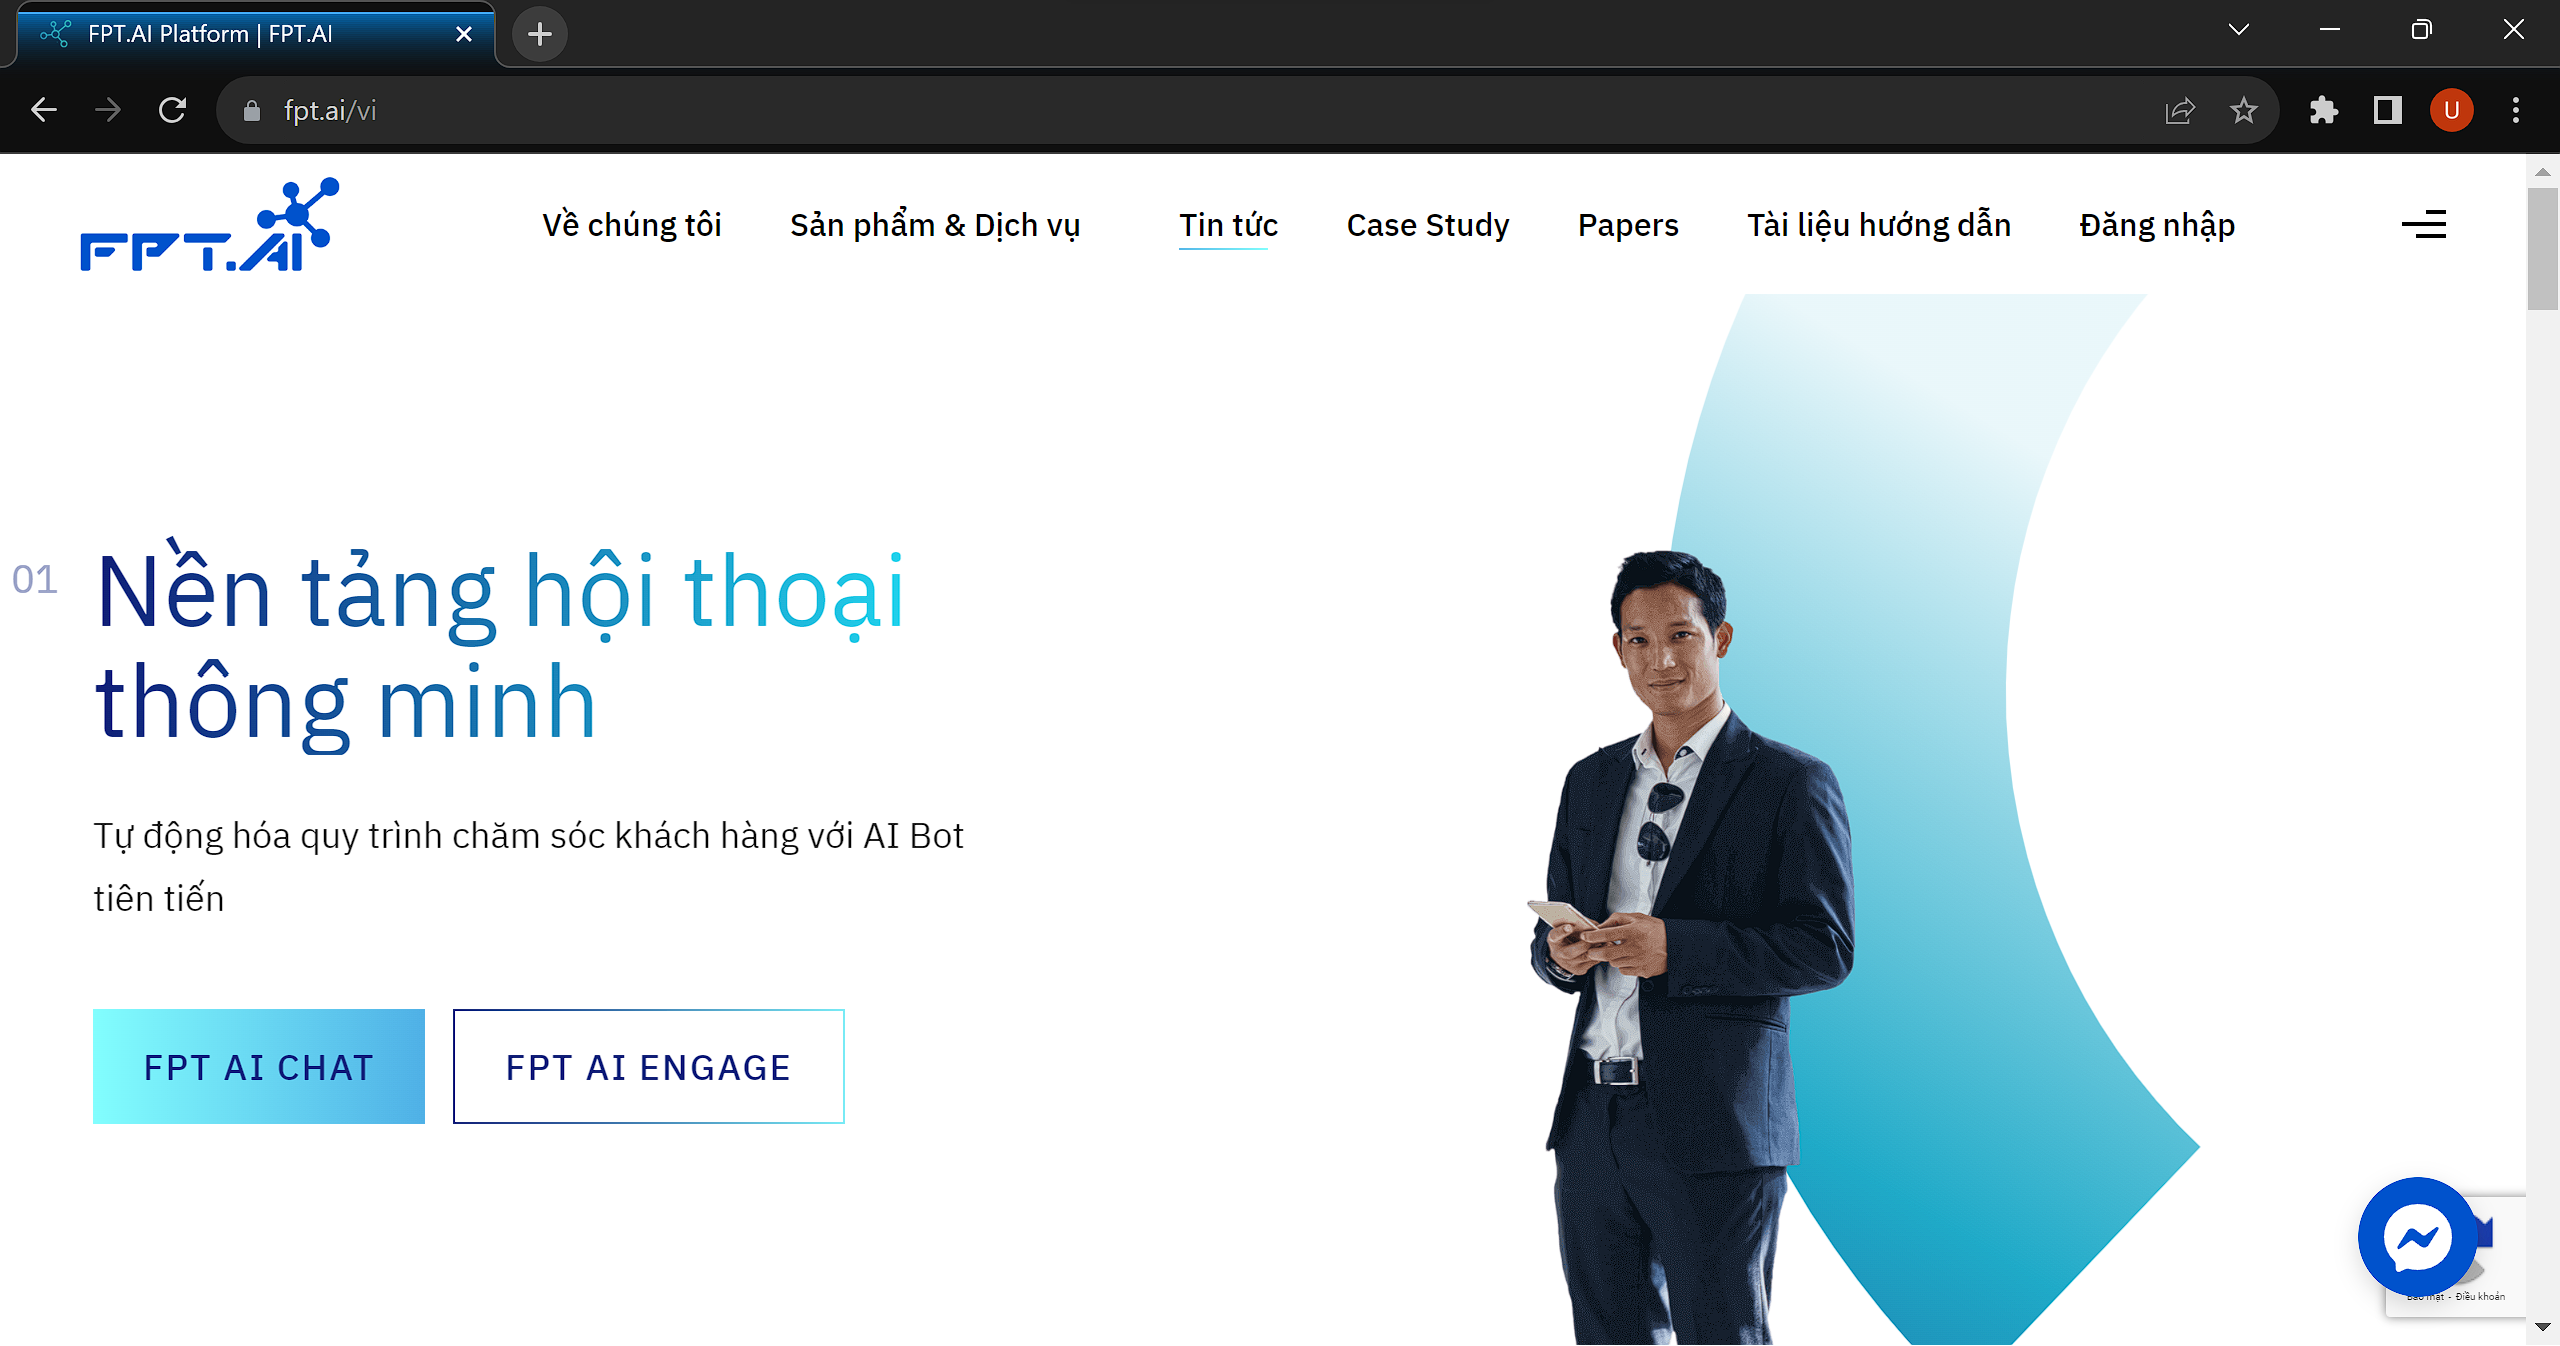
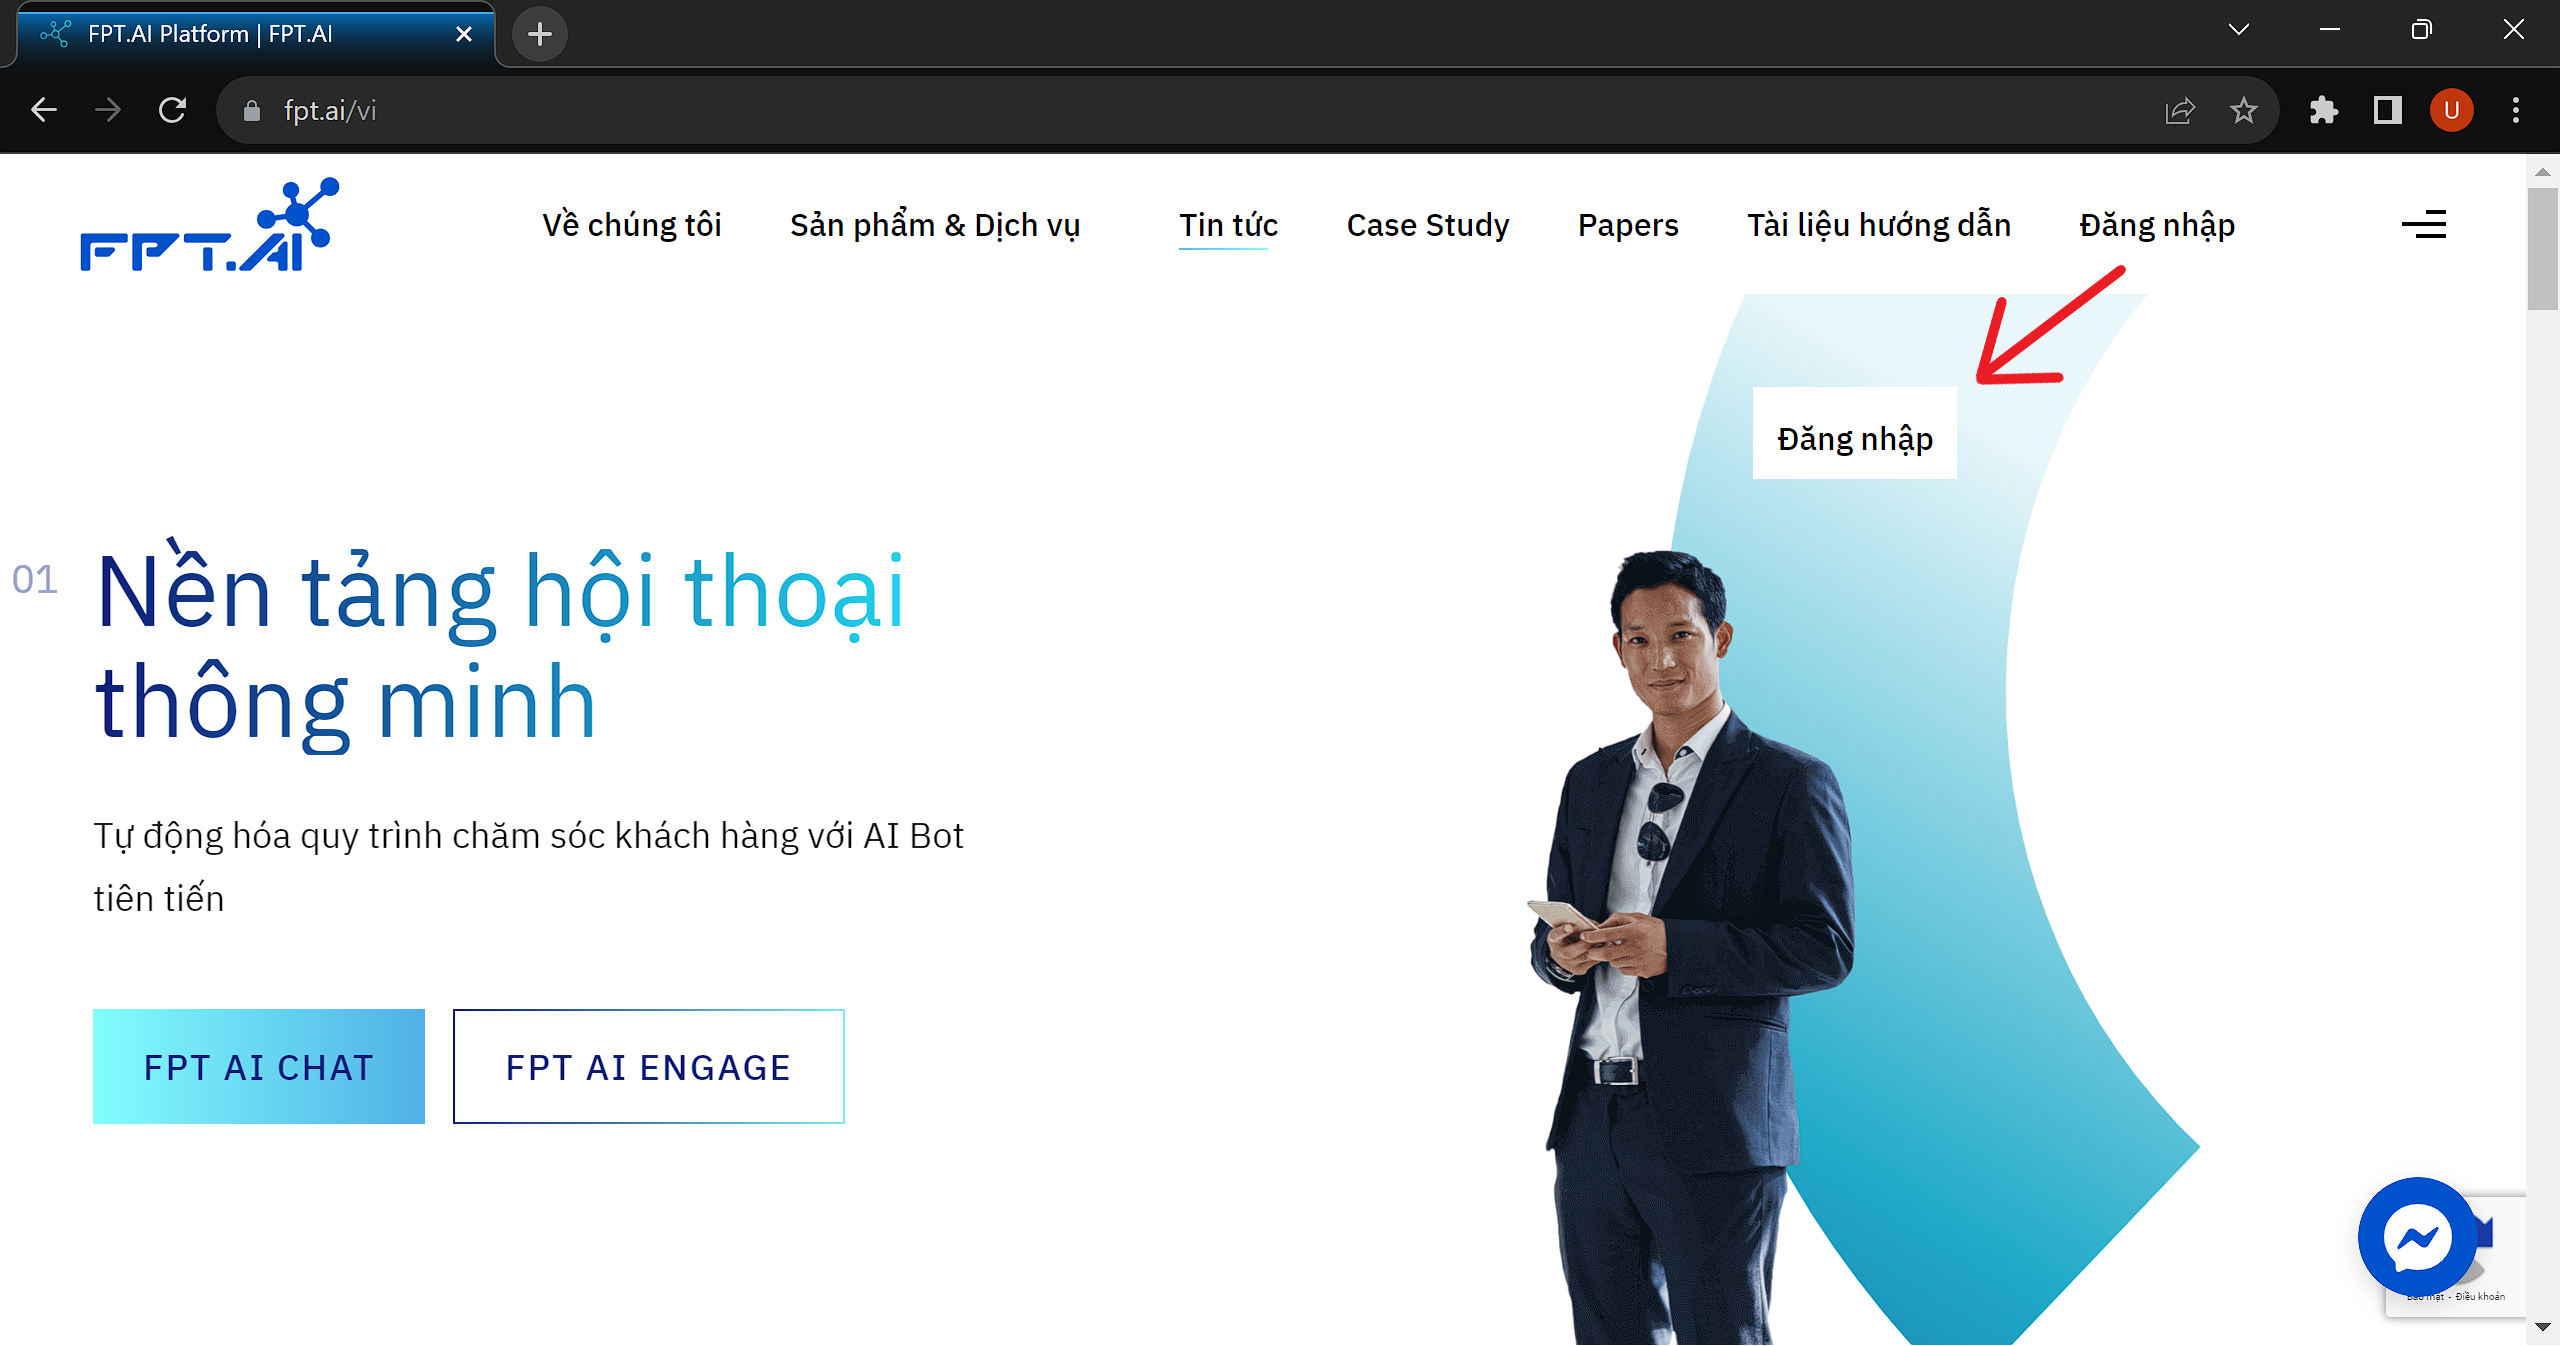
update Get FPTAI Key

Changed region(s): [[0.6875, 0.2184, 0.8125, 0.3744], [0.8125, 0.1872, 0.8438, 0.2184]]

diff --git a/api.html b/api.html
@@ -142,28 +142,47 @@
                         <li><a href="#step-2_2"><i class="fa fa-chevron-right"></i> Bước 2</a></li>
                         <li><a href="#step-2_3"><i class="fa fa-chevron-right"></i> Bước 3</a></li>
                         <li><a href="#step-2_4"><i class="fa fa-chevron-right"></i> Bước 4</a></li>
+                        <li><a href="#step-2_5"><i class="fa fa-chevron-right"></i> Bước 5</a></li>
+                        <li><a href="#step-2_6"><i class="fa fa-chevron-right"></i> Bước 6</a></li>
+                        <li><a href="#step-2_7"><i class="fa fa-chevron-right"></i> Bước 7</a></li>
+                        <li><a href="#step-2_8"><i class="fa fa-chevron-right"></i> Bước 8</a></li>
                     </ul>
                 </nav>
                 <div class="steps">
                     <ol>
                         <li class="Guide" id="step-2_1">
                             Truy cập: <a href="https://fpt.ai/vi" target="_blank">https://fpt.ai/vi
-                                <img src="images/getapi/FPTAI/step2_1.png" style="width: 100%; height: auto; margin-top: 20px" alt="Hướng dẫn 1">
+                                <img src="images/getapi/FPTAI/step2_1.png" style="width: 100%; height: auto; margin-top: 20px; border-radius:15px" alt="Hướng dẫn 1">
                         </li>
                         <li class="Guide" id="step-2_2">
-                            Đăng nhập bằng tài khoản FPT của bạn.
-                            <img src="images/getapi/FPTAI/step2_2.png" style="width: 100%; height: auto; margin-top: 20px" alt="Hướng dẫn 2">
+                            <a href="https://id.fptcloud.com/auth/realms/FptSmartCloud/protocol/openid-connect/auth?client_id=fptai_console&redirect_uri=https://console.fpt.ai/home&state=https://console.fpt.ai/&response_type=code&scope=openid+profile+email+phone"  target="_blank">
+                                                                Đăng nhập bằng tài khoản FPT của bạn.
+                            <img src="images/getapi/FPTAI/step2_2.png" style="width: 100%; height: auto; margin-top: 20px; border-radius: 15px" alt="Hướng dẫn 2">
                         </li>
                         <li class="Guide" id="step-2_3">
-                            Truy cập: <a href="https://zalo.ai/account/manage-keys" target="_blank">https://zalo.ai/account/manage-keys</a> và chọn 'Create new key'.
-                            <img src="images/getapi/oVmfDZW.png" style="width: 100%; height: auto; margin-top: 20px" alt="Hướng dẫn 3">
+                            Sau khi đăng nhập màn hình sẽ hiển thị như sau, ấn mở Text to Speech
+                            <img src="images/getapi/FPTAI/step2_3.png" style="width: 100%; height: auto; margin-top: 20px; border-radius:15px" alt="Hướng dẫn 3">
                         </li>
                         <li class="Guide" id="step-2_4">
-
-                            Đặt tên gợi nhớ và chọn Text-to-speech.
-                            <img src="images/getapi/4Yfhs3L.png" style="width: 100%; height: auto; margin-top: 20px" alt="Hướng dẫn 4">
+                            Chọn CONFIRM
+                            <img src="images/getapi/FPTAI/step2_4.png" style="width: 100%; height: auto; margin-top: 20px; border-radius:15px" alt="Hướng dẫn 4">
                         </li>
-
+                        <li class="Guide" id="step-2_5">
+                            Đặt tên dự án và chọn CREATE
+                                <img src="images/getapi/FPTAI/step2_5.png" style="width: 100%; height: auto; margin-top: 20px; border-radius:15px" alt="Hướng dẫn 5">
+                        </li>
+                        <li class="Guide" id="step-2_6">
+                            Đặt tên Key và chọn CREATE
+                            <img src="images/getapi/FPTAI/step2_6.png" style="width: 100%; height: auto; margin-top: 20px; border-radius: 15px" alt="Hướng dẫn 6">
+                        </li>
+                        <li class="Guide" id="step-2_7">
+                            Màn hình sẽ hiển thị như sau. Chọn API Keys
+                            <img src="images/getapi/FPTAI/step2_7.png" style="width: 100%; height: auto; margin-top: 20px; border-radius:15px" alt="Hướng dẫn 7">
+                        </li>
+                        <li class="Guide" id="step-2_8">
+                            Chọn sao chép Key và sử dụng
+                            <img src="images/getapi/FPTAI/step2_8.png" style="width: 100%; height: auto; margin-top: 20px; border-radius:15px" alt="Hướng dẫn 8">
+                        </li>
                         <!-- Thêm các bước cụ thể khác từ tệp PDF -->
                     </ol>
                 </div>
